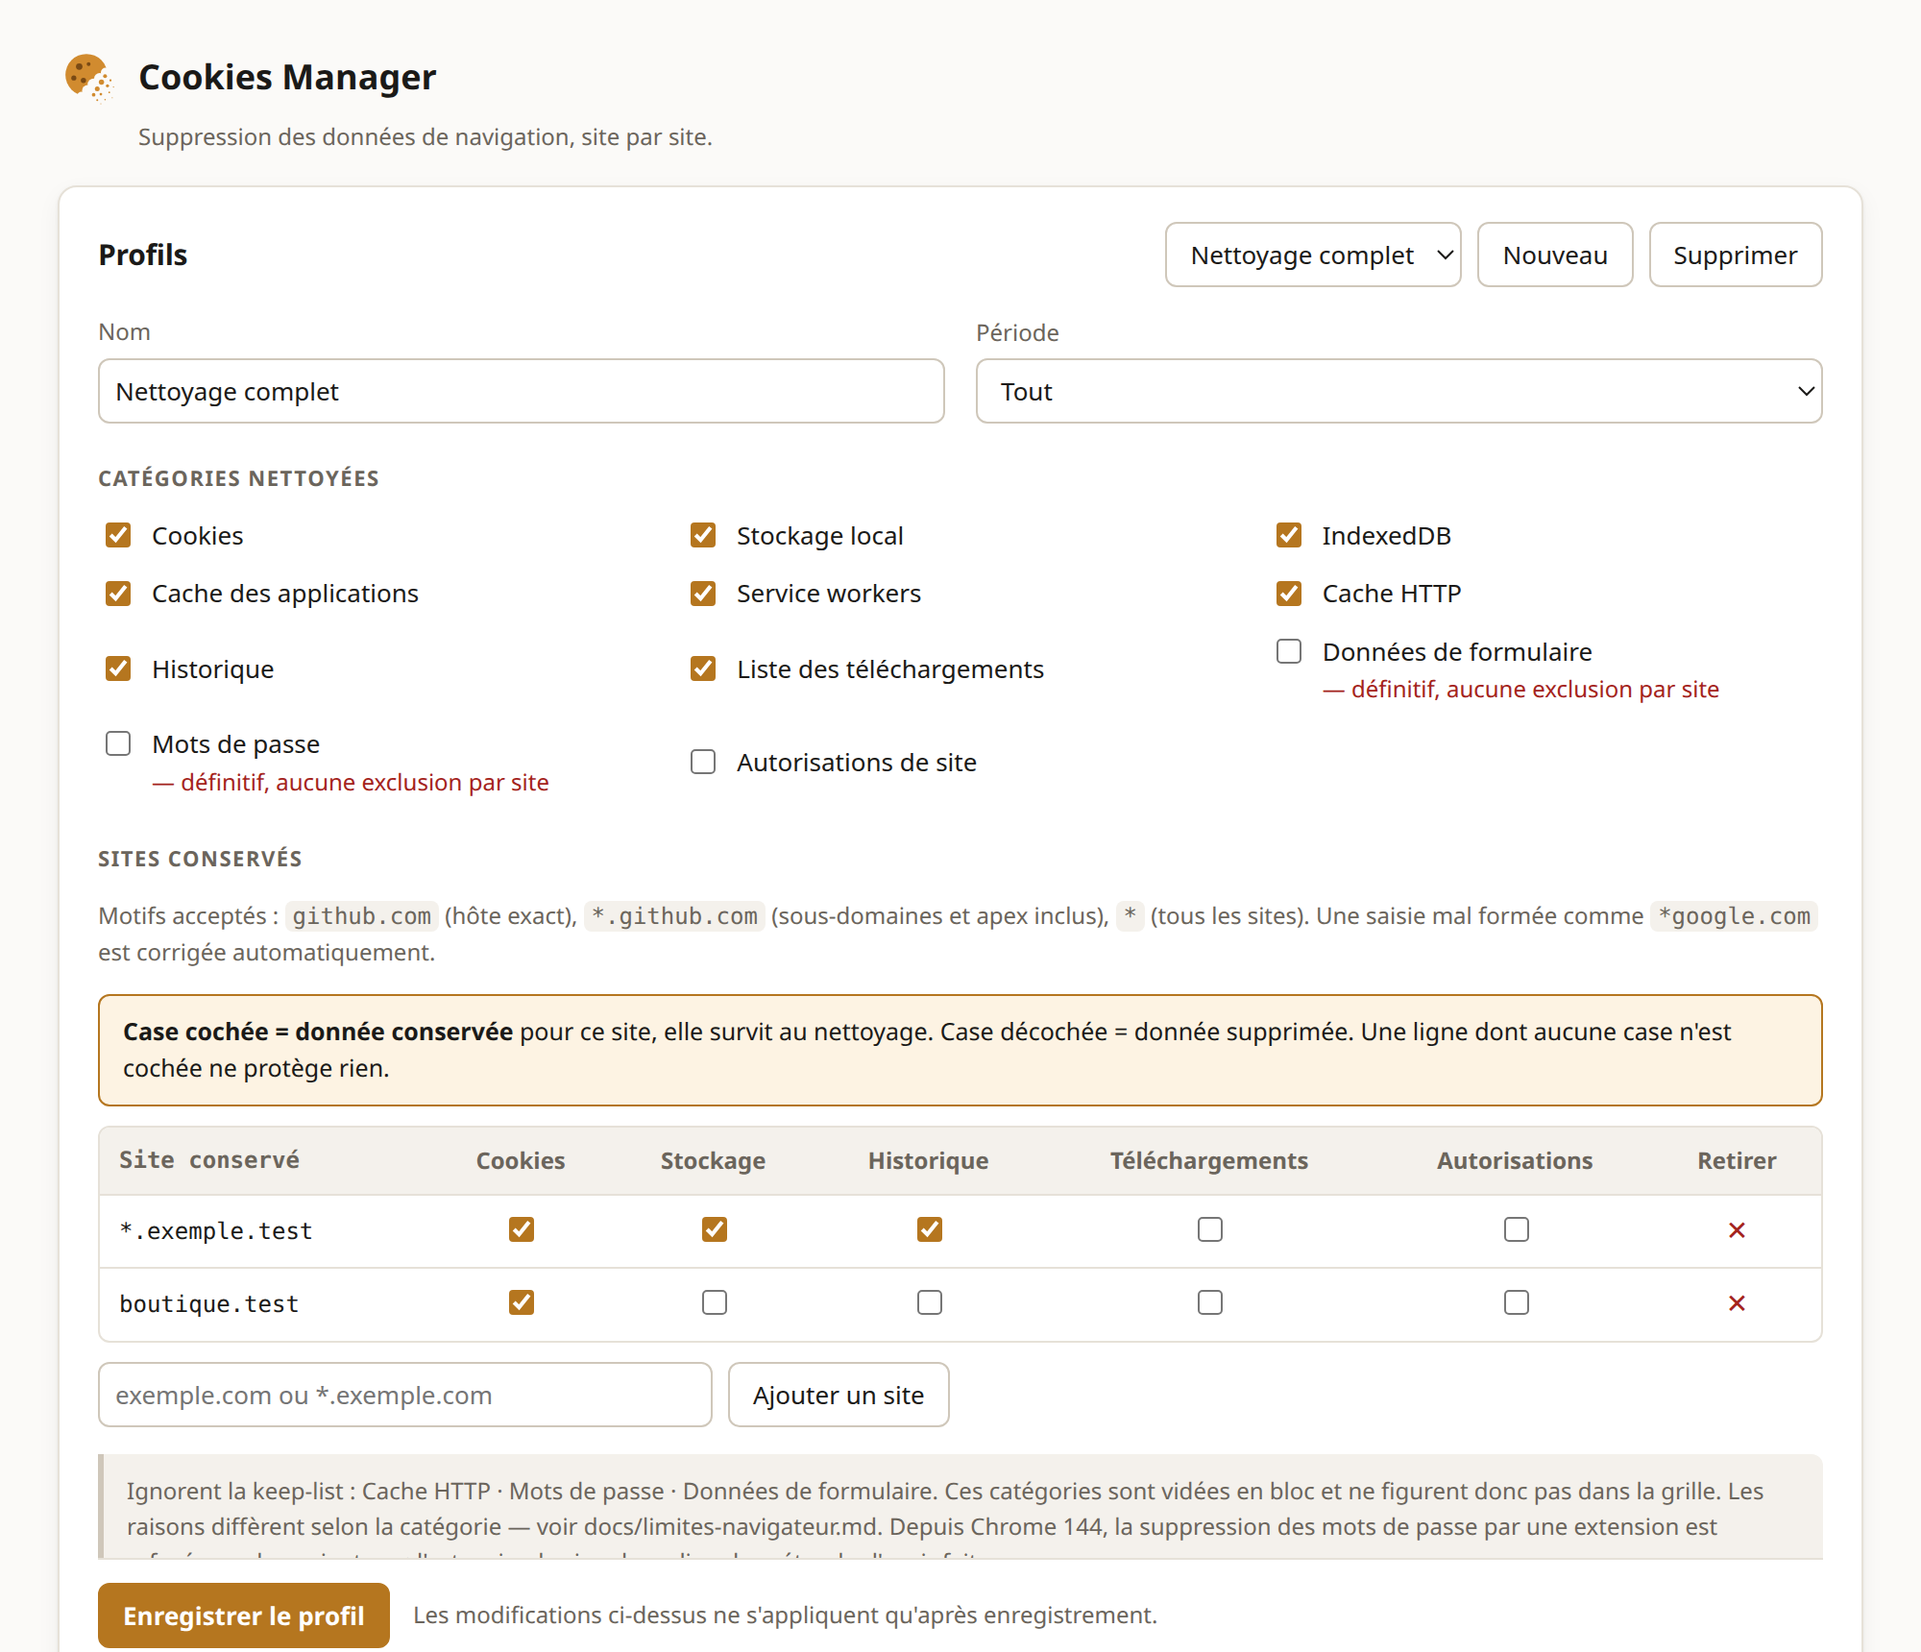
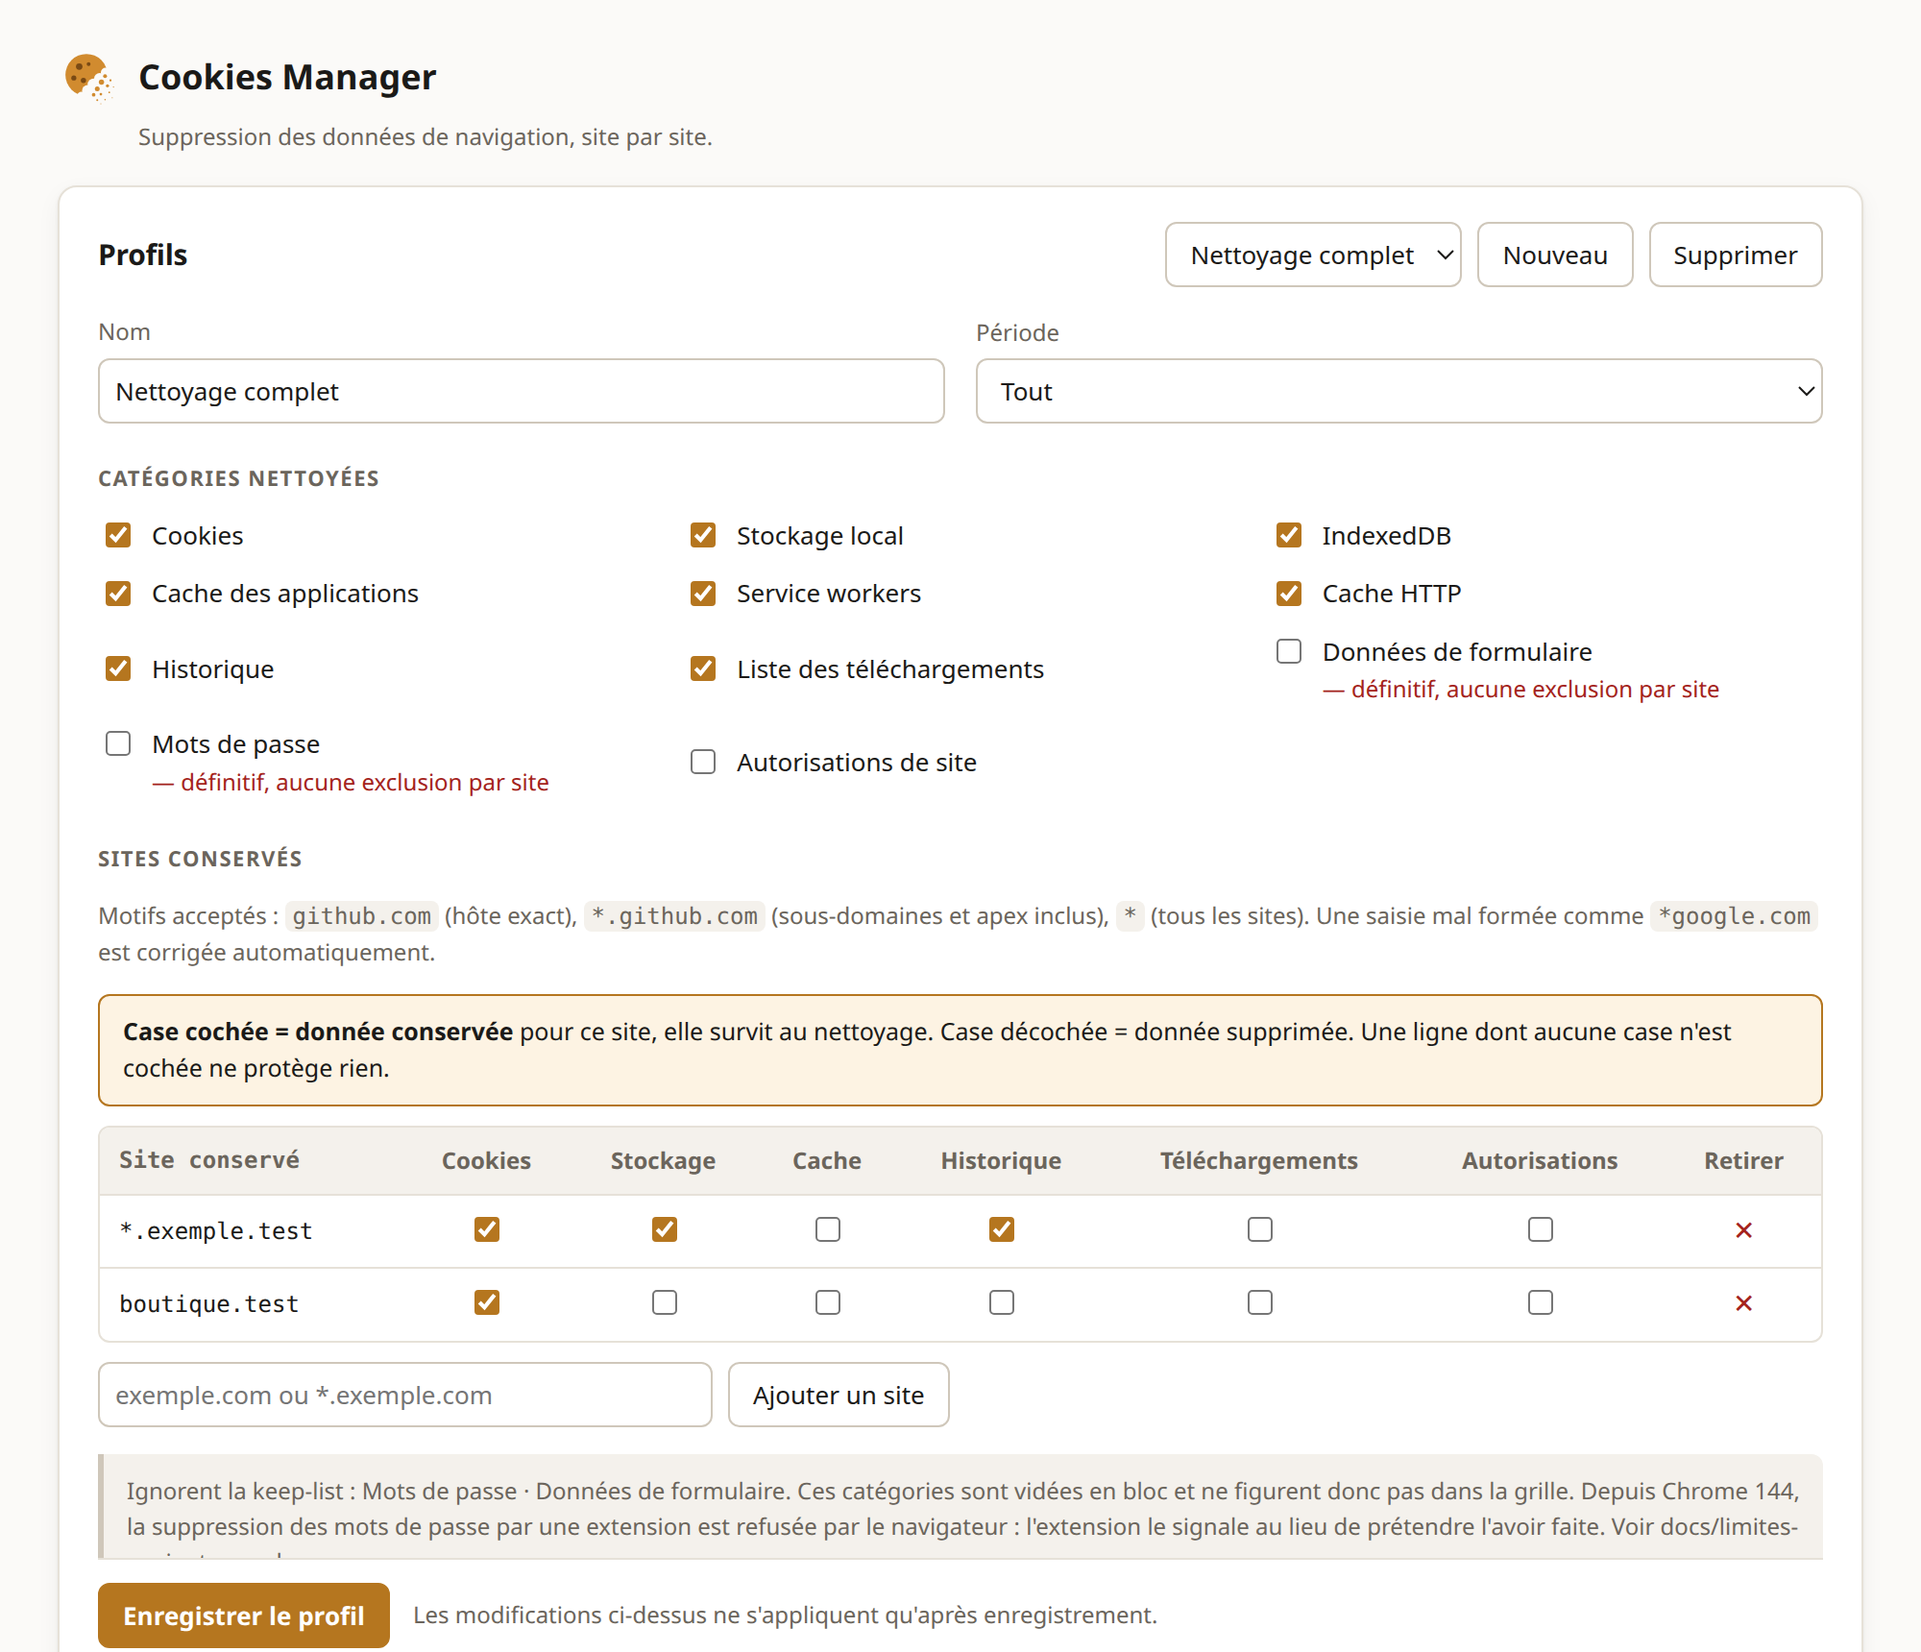
feat: protéger le cache HTTP par site, en disant ce que ça ne couvre pas
L'API accepte `excludeOrigins` pour le cache depuis Chrome 74 — vérifié dans
Chromium 150, l'appel est accepté là où le même filtre est refusé pour
l'historique. Le code, l'interface et le README affirmaient tous le contraire.

Le cache rejoint donc la grille de la keep-list, aux côtés des cookies, du
stockage, de l'historique et des téléchargements. Il sort du bloc « ignorent la
keep-list », où ne restent que les mots de passe et les données de formulaire.

La protection est partielle, et c'est dit partout où la case peut être cochée —
info-bulle de la colonne, note de l'aperçu, documentation :

- le filtre porte sur l'URL de la **ressource**, pas sur le site visité : ce
  qu'un site protégé charge depuis un CDN tiers est vidé quand même ;
- la borne de temps porte sur la dernière utilisation d'une entrée, pas sur sa
  création.

Une demi-protection annoncée comme telle vaut mieux qu'une limite inventée : la
version précédente refusait une capacité réelle en s'appuyant sur une
affirmation fausse.

diff --git a/tests/cleaners/browsingData.test.ts b/tests/cleaners/browsingData.test.ts
@@ -100,23 +100,63 @@ describe('createStorageCleaner', () => {
 });
 
 describe('createHttpCacheCleaner', () => {
-  it("n'offre aucune finesse par site", () => {
-    expect(createHttpCacheCleaner(fakeApi().api).perSite).toBe('none');
+  it('offre une finesse par origine', () => {
+    expect(createHttpCacheCleaner(fakeApi().api, knownHosts).perSite).toBe('origin');
   });
 
-  it('efface tout le cache sans exclusion, même si des règles existent', async () => {
+  it('exclut les origines protégées du vidage', async () => {
     const { api, calls } = fakeApi();
-    await createHttpCacheCleaner(api).clean(
+    await createHttpCacheCleaner(api, knownHosts).clean(
       plan('httpCache', [{ pattern: 'github.com', keep: { httpCache: true } }], 42),
     );
     expect(calls[0]!.types).toEqual({ cache: true });
-    expect(calls[0]!.options).toEqual({ since: 42 });
+    expect(calls[0]!.options.excludeOrigins).toEqual(['https://github.com', 'http://github.com']);
+    expect(calls[0]!.options.since).toBe(42);
   });
 
-  it("explique dans l'aperçu que la conservation par site est impossible", async () => {
-    const preview = await createHttpCacheCleaner(fakeApi().api).preview(plan('httpCache', []));
+  it('développe un wildcard à partir des hôtes connus', async () => {
+    const { api, calls } = fakeApi();
+    await createHttpCacheCleaner(api, knownHosts).clean(
+      plan('httpCache', [{ pattern: '*.github.com', keep: { httpCache: true } }]),
+    );
+    expect(calls[0]!.options.excludeOrigins).toContain('https://gist.github.com');
+    expect(calls[0]!.options.excludeOrigins).not.toContain('https://example.com');
+  });
+
+  it("vide tout quand rien n'est protégé, sans passer d'exclusion vide", async () => {
+    const { api, calls } = fakeApi();
+    await createHttpCacheCleaner(api, knownHosts).clean(plan('httpCache', []));
+    expect(calls[0]!.options.excludeOrigins).toBeUndefined();
+  });
+
+  it("avertit dans l'aperçu de ce que la protection ne couvre pas", async () => {
+    const preview = await createHttpCacheCleaner(fakeApi().api, knownHosts).preview(
+      plan('httpCache', [{ pattern: 'github.com', keep: { httpCache: true } }]),
+    );
     expect(preview.countable).toBe(false);
-    expect(preview.note).toMatch(/vidé en bloc/i);
+    // Le filtre porte sur l'URL de la ressource, pas sur le site visité.
+    expect(preview.note).toMatch(/ressource/i);
+    expect(preview.note).toMatch(/tiers|CDN/i);
+  });
+
+  it("n'avertit pas de la limite quand aucun site n'est protégé", async () => {
+    const preview = await createHttpCacheCleaner(fakeApi().api, knownHosts).preview(
+      plan('httpCache', []),
+    );
+    expect(preview.note).not.toMatch(/ressource/i);
+  });
+
+  it('rend un statut échoué quand l’API rejette', async () => {
+    const rejette = {
+      browsingData: {
+        remove() {
+          return Promise.reject(new Error('cache verrouillé'));
+        },
+      },
+    };
+    const report = await createHttpCacheCleaner(rejette, knownHosts).clean(plan('httpCache', []));
+    expect(report.status).toBe('failed');
+    expect(report.error).toMatch(/cache verrouillé/);
   });
 });
 
@@ -130,7 +170,7 @@ describe('chemins d’échec des cleaners tout-ou-rien', () => {
   };
 
   it('le cache HTTP rapporte un échec plutôt que de le taire', async () => {
-    const report = await createHttpCacheCleaner(rejette).clean(plan('httpCache', []));
+    const report = await createHttpCacheCleaner(rejette, knownHosts).clean(plan('httpCache', []));
     expect(report).toMatchObject({ status: 'failed', deleted: 0, kept: 0 });
     expect(report.error).toMatch(/permission révoquée/);
   });
@@ -150,7 +190,7 @@ describe('chemins d’échec des cleaners tout-ou-rien', () => {
         },
       },
     };
-    const report = await createHttpCacheCleaner(brut).clean(plan('httpCache', []));
+    const report = await createHttpCacheCleaner(brut, knownHosts).clean(plan('httpCache', []));
     expect(report.error).toBe('panne brute');
   });
 });

diff --git a/src/cleaners/httpCache.ts b/src/cleaners/httpCache.ts
@@ -1,24 +1,45 @@
 import type { CategoryPlan } from '../core/planner';
 import type { Cleaner, CleanReport, Preview } from '../core/types';
-import type { BrowsingDataApi } from './storage';
+import { protectedOrigins } from './storage';
+import type { BrowsingDataApi, OriginSource } from './storage';
 
-const NOTE =
-  "Le cache HTTP est vidé en bloc. L'API accepterait bien une exclusion par origine, mais elle " +
-  "filtre sur l'URL de la ressource et non sur le site visité : protéger un site ne préserverait " +
-  'pas ce qu’il charge depuis un CDN tiers.';
+const NOTE = 'Le cache HTTP est vidé en bloc pour tous les sites non protégés.';
 
-export function createHttpCacheCleaner(api: BrowsingDataApi): Cleaner {
+/**
+ * L'API accepte `excludeOrigins` pour le cache depuis Chrome 74 — contrairement
+ * à ce que ce fichier a longtemps affirmé. Mais le filtre porte sur l'URL de la
+ * **ressource**, pas sur le site visité : protéger `exemple.com` préserve ce que
+ * sert `exemple.com`, pas les images, polices et scripts que la page charge
+ * depuis un CDN tiers.
+ *
+ * La protection est donc partielle, et le dire fait partie de la protection.
+ */
+const PARTIAL_NOTE =
+  "L'exclusion porte sur l'URL de la ressource, pas sur le site visité : ce qu'un site protégé " +
+  'charge depuis un domaine tiers (CDN, polices, scripts) est tout de même vidé. La borne de ' +
+  "temps porte sur la dernière utilisation d'une entrée, pas sur sa création.";
+
+export function createHttpCacheCleaner(api: BrowsingDataApi, knownHosts: OriginSource): Cleaner {
   return {
     id: 'httpCache',
-    perSite: 'none',
+    perSite: 'origin',
 
-    async preview(): Promise<Preview> {
-      return { countable: false, items: 0, note: NOTE };
+    async preview(plan: CategoryPlan): Promise<Preview> {
+      const origins = await protectedOrigins(plan, knownHosts);
+      return {
+        countable: false,
+        items: 0,
+        note: origins.length === 0 ? NOTE : `${NOTE} ${PARTIAL_NOTE}`,
+      };
     },
 
     async clean(plan: CategoryPlan): Promise<CleanReport> {
+      const excludeOrigins = await protectedOrigins(plan, knownHosts);
+      const options: chrome.browsingData.RemovalOptions = { since: plan.since };
+      if (excludeOrigins.length > 0) options.excludeOrigins = excludeOrigins;
+
       try {
-        await api.browsingData.remove({ since: plan.since }, { cache: true });
+        await api.browsingData.remove(options, { cache: true });
         return { status: 'ok', deleted: 0, kept: 0, countable: false };
       } catch (cause) {
         return {

diff --git a/src/ui/options/grid.ts b/src/ui/options/grid.ts
@@ -6,7 +6,7 @@ export const PER_SITE: Record<Category, 'exact' | 'origin' | 'none'> = {
   indexedDB: 'origin',
   cacheStorage: 'origin',
   serviceWorkers: 'origin',
-  httpCache: 'none',
+  httpCache: 'origin',
   history: 'exact',
   downloads: 'exact',
   formData: 'none',
@@ -29,6 +29,14 @@ export const COLUMNS: Column[] = [
     categories: ['localStorage', 'indexedDB', 'cacheStorage', 'serviceWorkers'],
     hint: 'localStorage, IndexedDB, cache des applications et service workers',
   },
+  {
+    key: 'httpCache',
+    label: 'Cache',
+    categories: ['httpCache'],
+    hint:
+      "Protection partielle : l'exclusion porte sur l'URL de la ressource, pas sur le site " +
+      'visité. Ce qu’un site protégé charge depuis un CDN tiers est tout de même vidé.',
+  },
   { key: 'history', label: 'Historique', categories: ['history'] },
   { key: 'downloads', label: 'Téléchargements', categories: ['downloads'] },
   {
@@ -42,7 +50,7 @@ export const COLUMNS: Column[] = [
 ];
 
 /** Catégories que l'API ne sait pas exclure par site : hors tableau, dans leur propre bloc. */
-export const UNFILTERABLE: Category[] = ['httpCache', 'passwords', 'formData'];
+export const UNFILTERABLE: Category[] = ['passwords', 'formData'];
 
 export type GroupState = 'all' | 'partial' | 'none';
 

diff --git a/src/ui/options/options.ts b/src/ui/options/options.ts
@@ -78,9 +78,9 @@ function renderUnfilterableNote(): void {
   const names = UNFILTERABLE.map((category) => CATEGORY_LABELS[category]).join(' · ');
   unfilterableEl.textContent =
     `Ignorent la keep-list : ${names}. Ces catégories sont vidées en bloc et ne figurent donc ` +
-    `pas dans la grille. Les raisons diffèrent selon la catégorie — voir docs/limites-navigateur.md. ` +
-    `Depuis Chrome 144, la suppression des mots de passe par une extension est refusée par le ` +
-    `navigateur : l'extension le signale au lieu de prétendre l'avoir faite.`;
+    `pas dans la grille. Depuis Chrome 144, la suppression des mots de passe par une extension ` +
+    `est refusée par le navigateur : l'extension le signale au lieu de prétendre l'avoir faite. ` +
+    `Voir docs/limites-navigateur.md.`;
 }
 
 function renderKeeplist(): void {

diff --git a/src/cleaners/storage.ts b/src/cleaners/storage.ts
@@ -18,7 +18,10 @@ export type StorageCategory = 'localStorage' | 'indexedDB' | 'cacheStorage' | 's
 const PARTIAL_NOTE =
   "Liste des origines dérivée des cookies et de l'historique : c'est un minorant, la liste n'est pas exhaustive.";
 
-async function protectedOrigins(plan: CategoryPlan, knownHosts: OriginSource): Promise<string[]> {
+export async function protectedOrigins(
+  plan: CategoryPlan,
+  knownHosts: OriginSource,
+): Promise<string[]> {
   const hosts = new Set<string>();
 
   for (const rule of plan.keepRules) {

diff --git a/tests/ui/grid.test.ts b/tests/ui/grid.test.ts
@@ -18,7 +18,9 @@ describe('PER_SITE', () => {
 
   it("correspond aux limites réelles de l'API", () => {
     expect(PER_SITE.cookies).toBe('exact');
-    expect(PER_SITE.httpCache).toBe('none');
+    // Le cache accepte `excludeOrigins` depuis Chrome 74, contrairement à ce
+    // que ce projet a longtemps affirmé — protection partielle, mais réelle.
+    expect(PER_SITE.httpCache).toBe('origin');
     expect(PER_SITE.passwords).toBe('none');
     expect(PER_SITE.formData).toBe('none');
   });

diff --git a/src/cleaners/index.ts b/src/cleaners/index.ts
@@ -78,7 +78,7 @@ export function buildCleaners(
     createStorageCleaner(api, 'indexedDB', knownHosts),
     createStorageCleaner(api, 'cacheStorage', knownHosts),
     createStorageCleaner(api, 'serviceWorkers', knownHosts),
-    createHttpCacheCleaner(api),
+    createHttpCacheCleaner(api, knownHosts),
     createHistoryCleaner(api as HistoryApi),
     createDownloadsCleaner(api as DownloadsApi),
     createCredentialsCleaner(api, 'formData', chromeMajor),

diff --git a/tests/cleaners/index.test.ts b/tests/cleaners/index.test.ts
@@ -46,7 +46,7 @@ describe('buildCleaners', () => {
     const byId = new Map(buildCleaners(fakeChrome(), async () => []).map((c) => [c.id, c.perSite]));
     expect(byId.get('cookies')).toBe('exact');
     expect(byId.get('localStorage')).toBe('origin');
-    expect(byId.get('httpCache')).toBe('none');
+    expect(byId.get('httpCache')).toBe('origin');
     expect(byId.get('passwords')).toBe('none');
     expect(byId.get('formData')).toBe('none');
   });

diff --git a/docs/limites-navigateur.md b/docs/limites-navigateur.md
@@ -34,20 +34,26 @@ Une extension peut en revanche _masquer_ une autorisation utilisateur en posant
 sa propre règle, qui prend le pas tant qu'elle est installée. Ce n'est pas une
 suppression.
 
-## Cache HTTP : filtrable, mais pas comme on l'attend
+## Cache HTTP : filtrable, mais la protection est partielle
 
-Contrairement à ce que cette documentation affirmait jusqu'ici, l'API **accepte**
-`origins` et `excludeOrigins` pour le cache, depuis Chrome 74 : « Only supported
-for cookies, storage and cache. »
+L'API accepte `origins` et `excludeOrigins` pour le cache depuis Chrome 74 :
+« Only supported for cookies, storage and cache. » Cette documentation
+affirmait le contraire jusqu'à l'audit ; c'était faux.
 
-Cette extension n'en tire pas parti, et c'est délibéré : le filtre s'applique à
-l'**URL de la ressource**, pas au site visité. Exclure `https://exemple.com` ne
-préserverait que les ressources servies par ce domaine — pas les images, polices
-ou scripts que le site charge depuis un CDN tiers. Une case « conserver le cache
-de ce site » promettrait donc plus qu'elle ne tient.
+L'extension en tire désormais parti : le cache figure dans la grille de la
+keep-list, et les origines protégées sont exclues du vidage. **Mais la
+protection est partielle, et il faut le savoir avant de cocher la case :**
 
-À savoir aussi : la borne de temps porte sur la **dernière utilisation** d'une
-entrée de cache, pas sur sa création.
+- Le filtre porte sur l'**URL de la ressource**, pas sur le site visité.
+  Protéger `exemple.com` préserve ce que sert `exemple.com` — pas les images,
+  polices ou scripts que la page charge depuis un CDN tiers. Un site protégé se
+  rechargera donc partiellement depuis le réseau.
+- Inversement, protéger un domaine de CDN préserverait ses ressources pour
+  **tous** les sites qui s'en servent.
+- La borne de temps porte sur la **dernière utilisation** d'une entrée de cache,
+  pas sur sa création.
+
+L'aperçu rappelle ces limites dès qu'au moins un site est protégé.
 
 ## Historique : la suppression n'est pas bornée dans le temps
 

diff --git a/README.md b/README.md
@@ -78,6 +78,10 @@ celles-ci, mesurées dans un vrai navigateur :
   règles, jamais celles que vous avez accordées vous-même.
 - **Historique** : la suppression d'une URL efface toutes ses visites, sans
   borne de temps.
+- **Cookies cloisonnés** : ceux qu'un service tiers pose depuis une page ne sont
+  pas visibles de l'API, et survivent même à un nettoyage total.
+- **Cache HTTP** : protégeable par site, mais le filtre porte sur l'URL de la
+  ressource — ce qu'un site charge depuis un CDN tiers est vidé quand même.
 
 Le [coffre de cookies](docs/coffre.md) est optionnel et désactivé par défaut :
 il chiffre les cookies condamnés avant de les supprimer, pour pouvoir les
